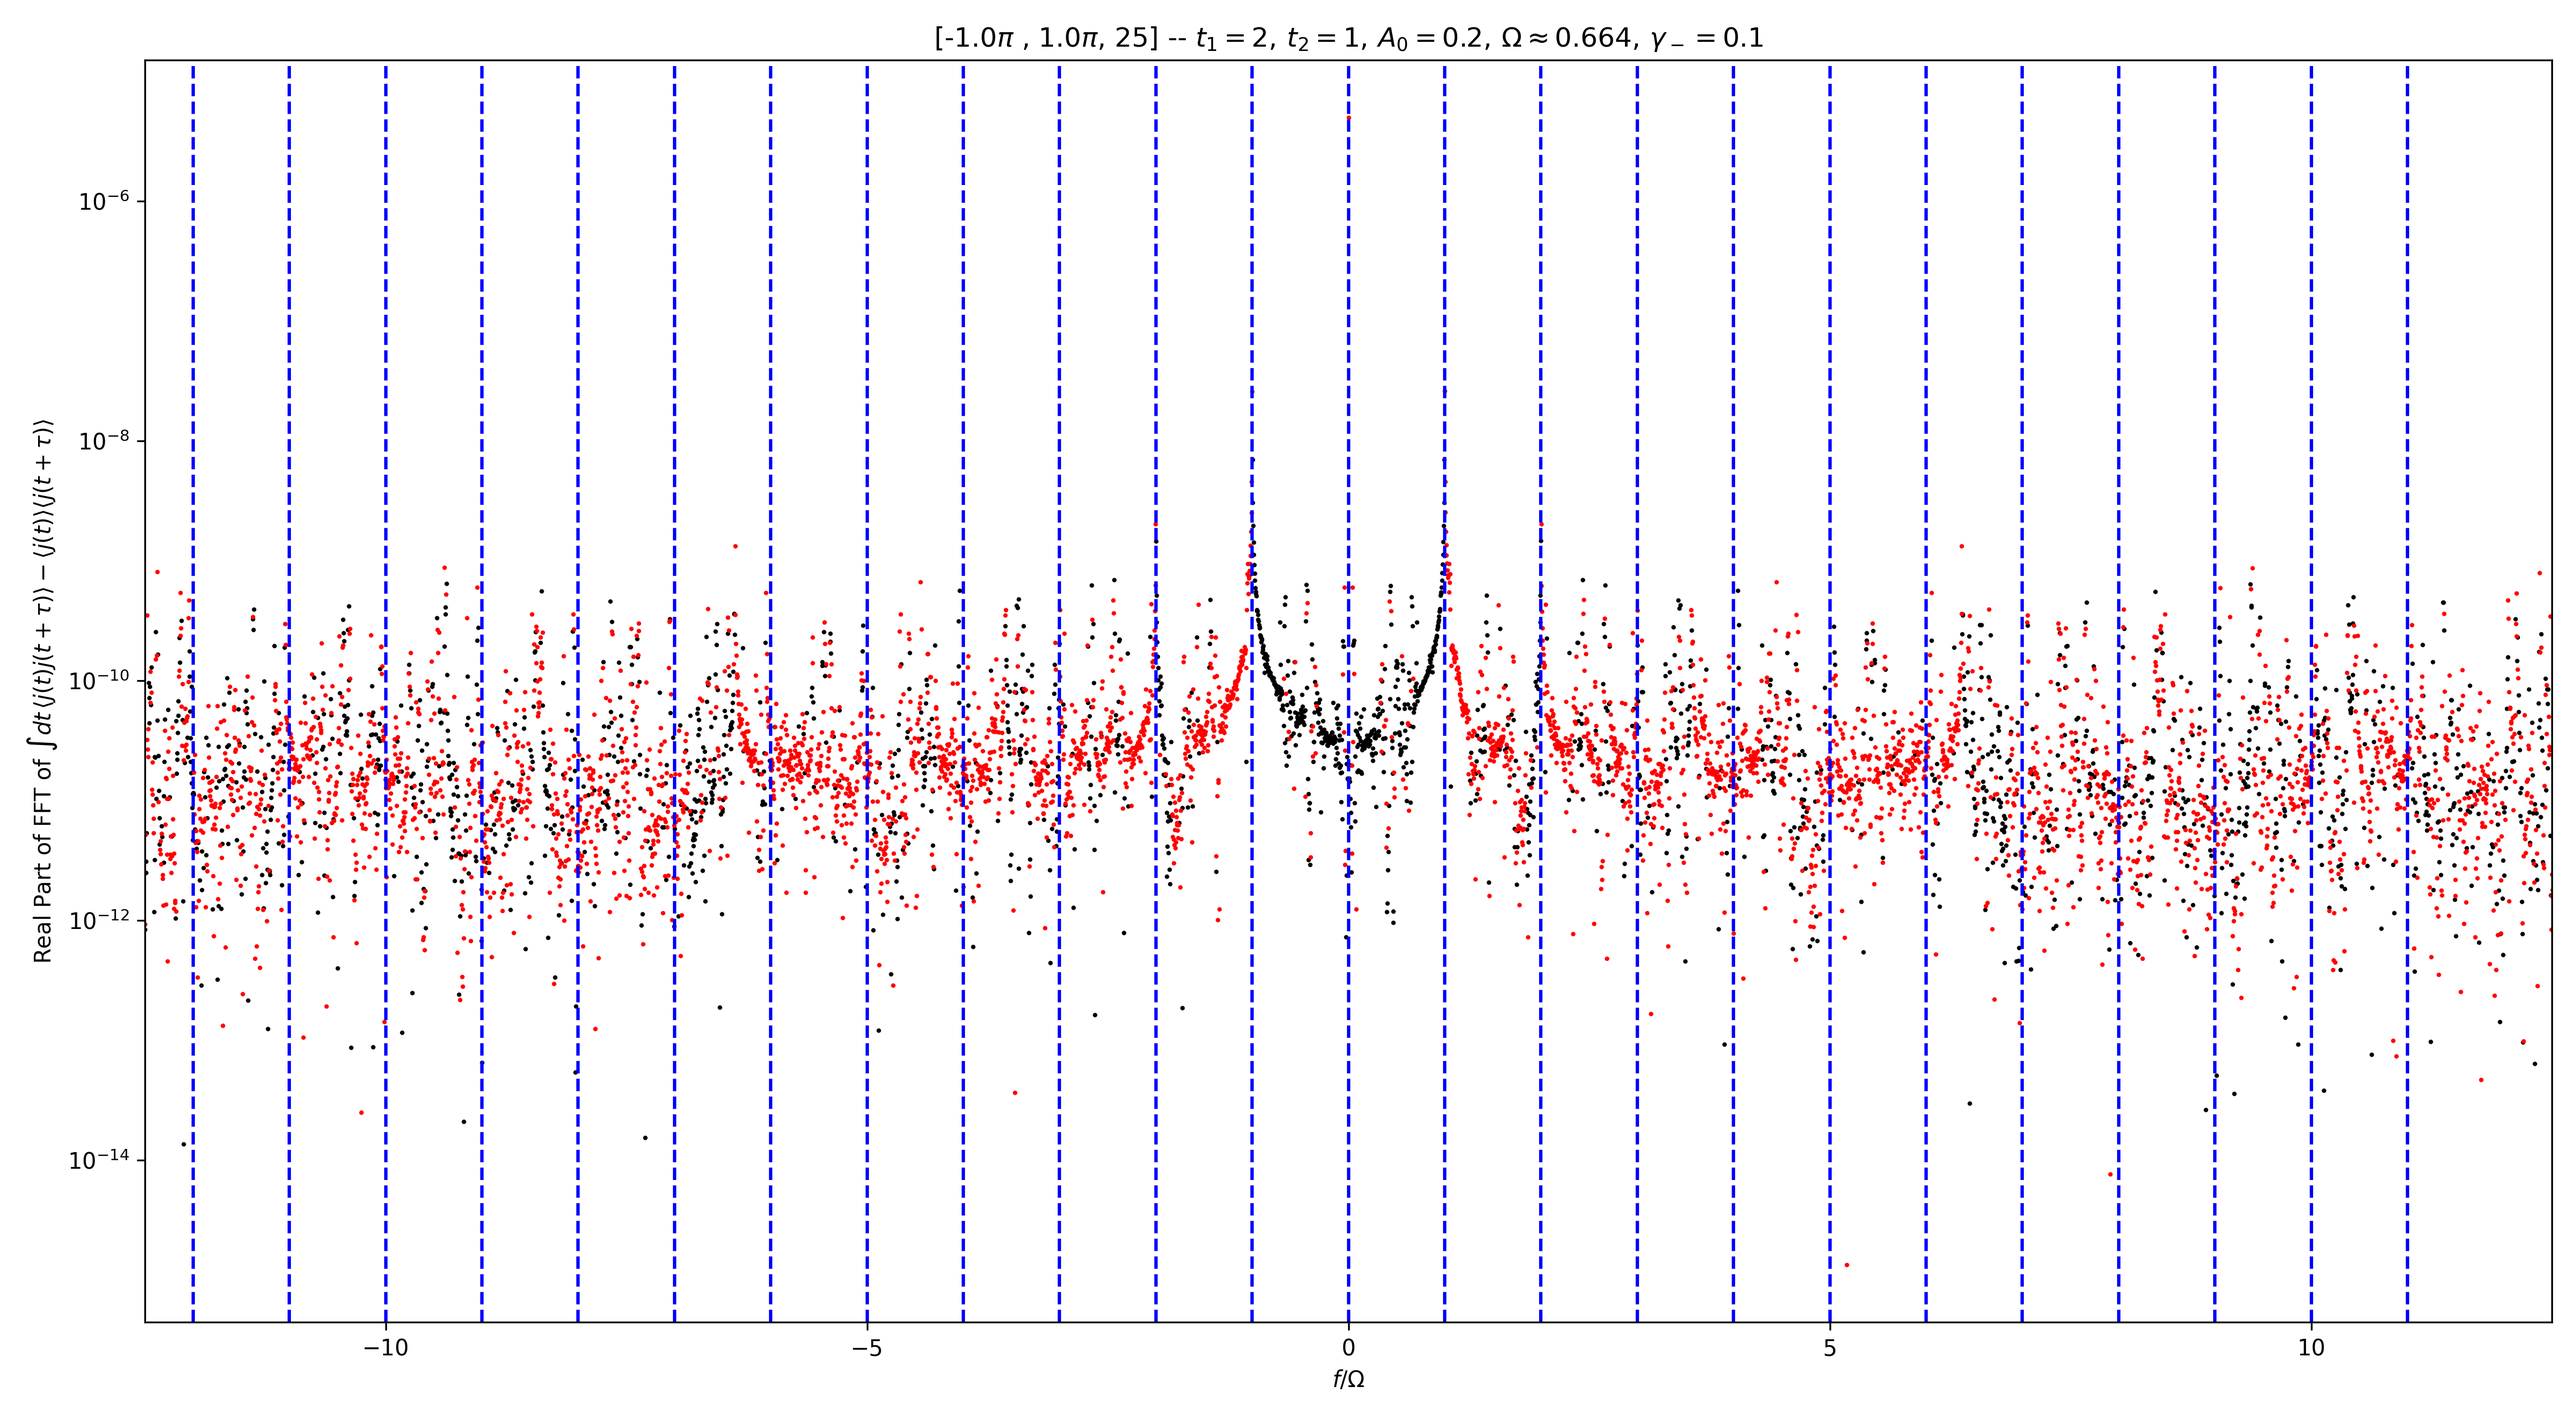
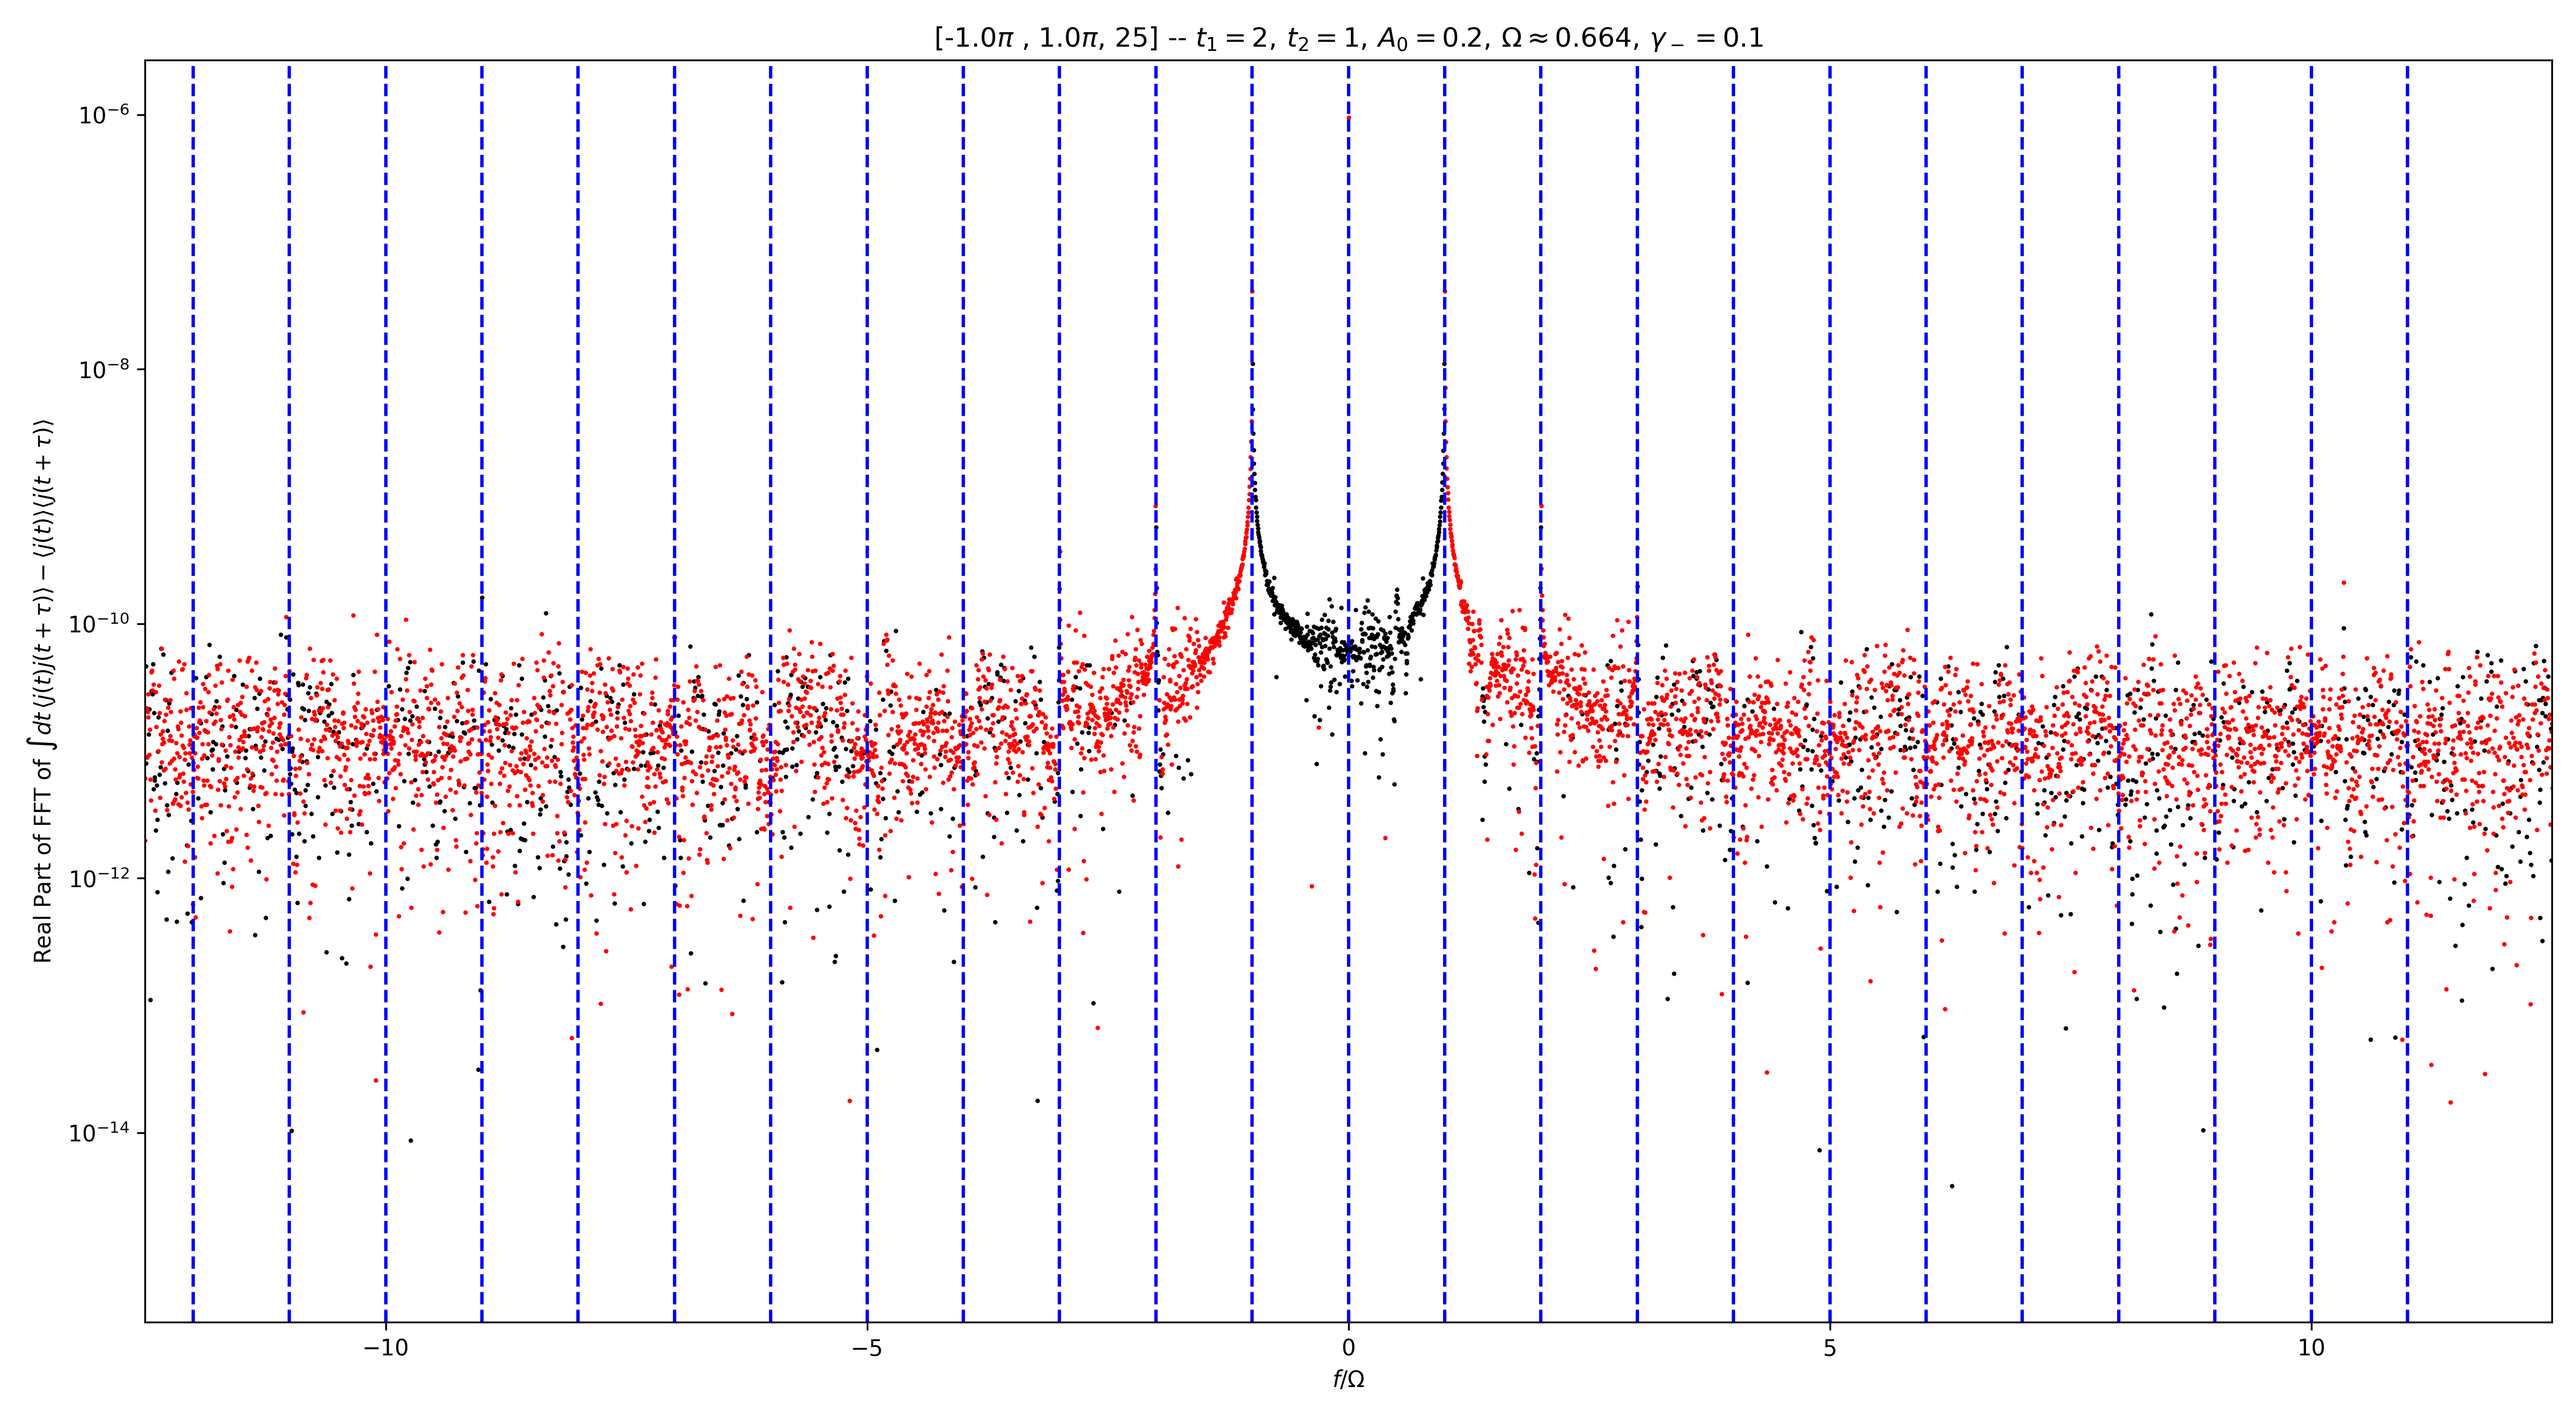
Changed the tolerance from 1e-10 to 1e-11 on the ODE solver, the solution is now cleaner at the level of the steady state oscillations, clearer integer harmonics are visible in the FFT, however that zero harmonic is still there, larger than the oscillations.

Changed region(s): [[0.0312, 0.3727, 1.0, 0.6523]]

diff --git a/SSHModel/SSH.py b/SSHModel/SSH.py
@@ -127,7 +127,7 @@ class SSH:
         # Stores parameters to be shared amongst the single- and double-time correlations by the ODE solver.
         odeParams = {
             'fun' : self.__ClassicallyDrivenSSHEquations,
-            'rtol' : 1e-10,
+            'rtol' : 1e-11,
             'atol' : 1e-12,
             'max_step' : 0.01 / self.__params.decayConstant,
             'vectorized' : True
